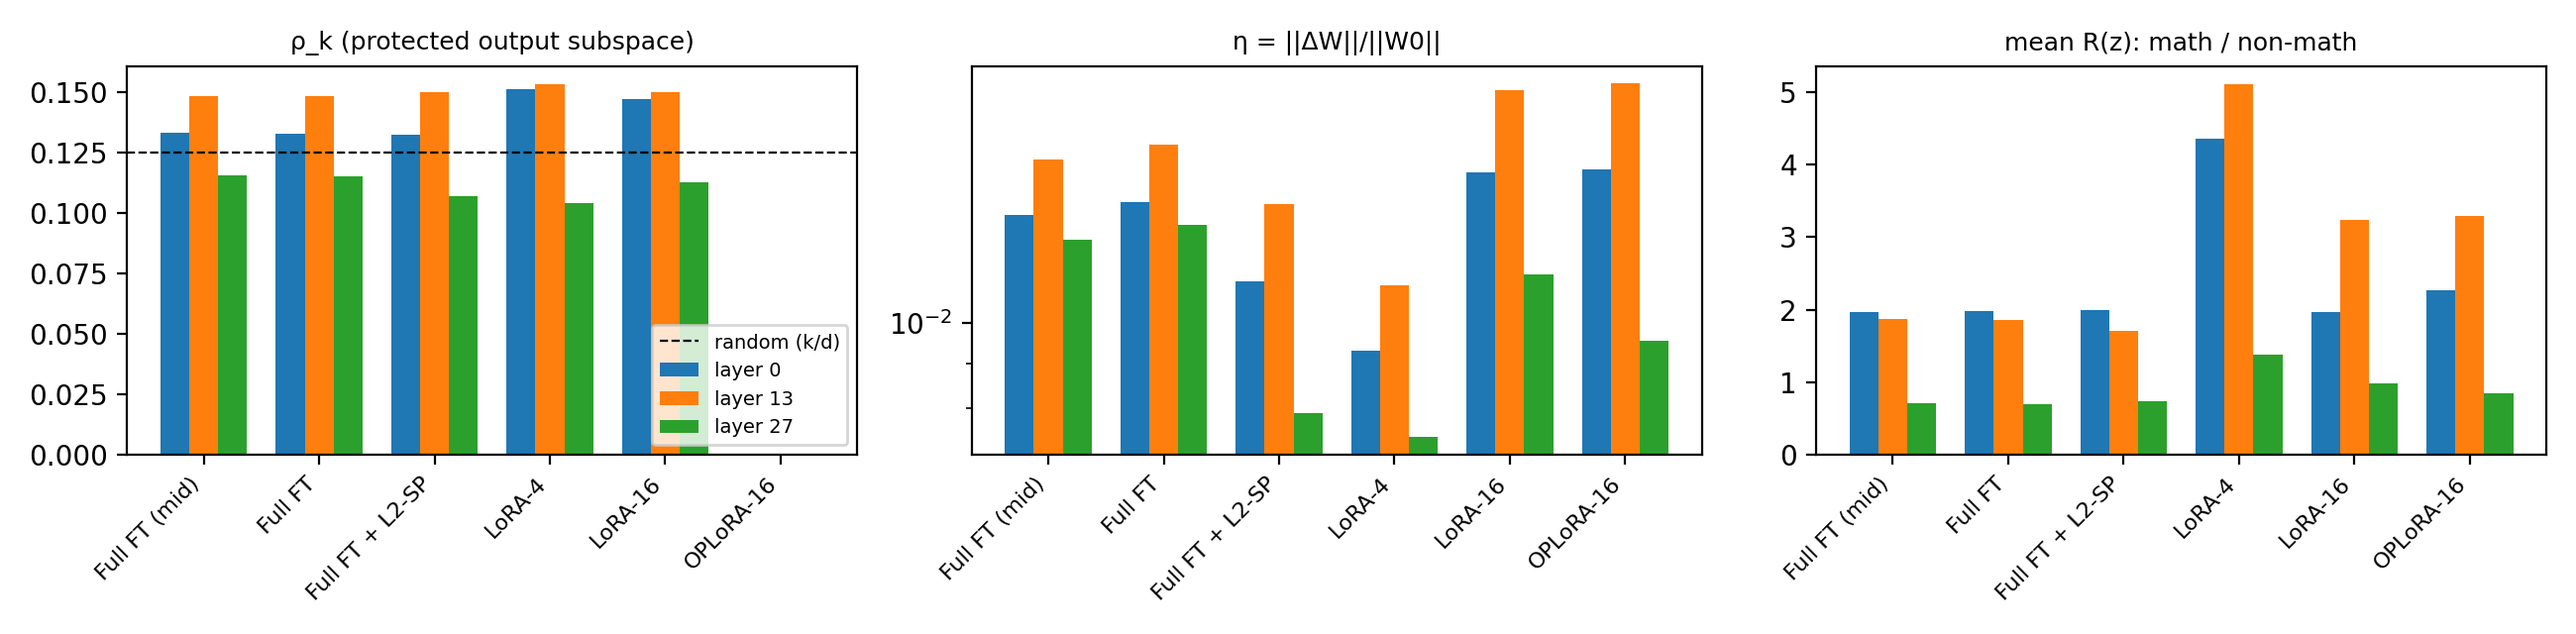
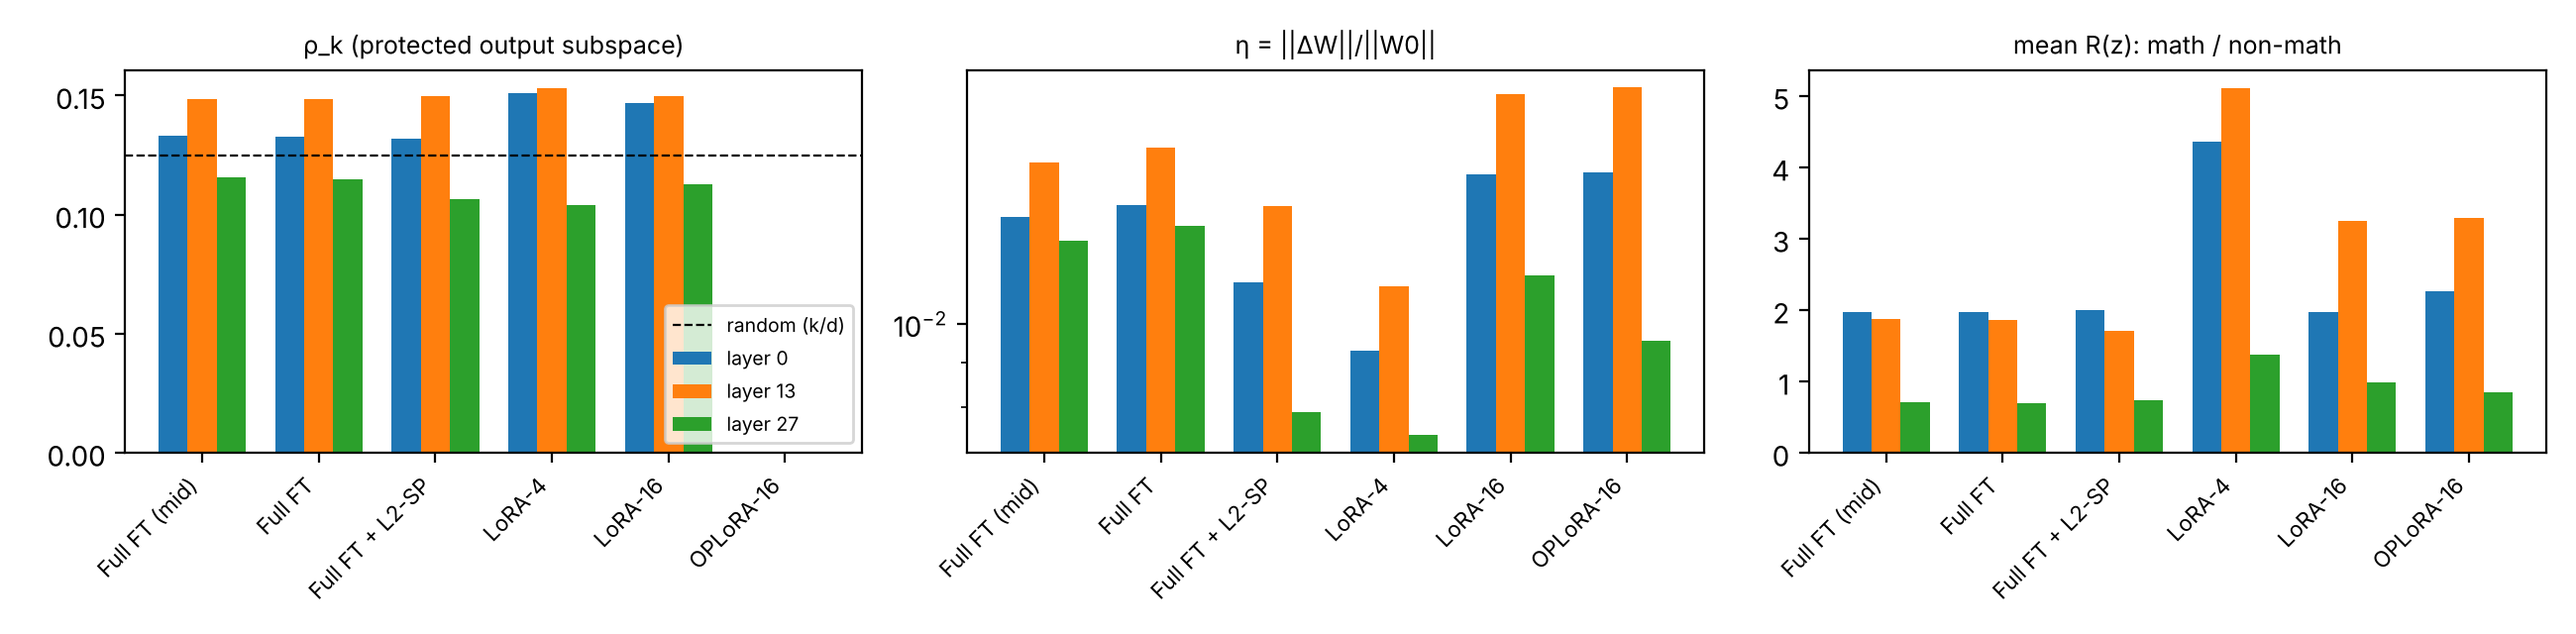
Restore cleaned Task 1 logs and figures; note Task 2 run details
The last results push copied stale Task 1 logs and figures from Drive over the
cleaned versions; regenerated them (identical to fe8941c). Task 2 run notes in
progress.md.

Claude-Session: https://claude.ai/code/session_01EvFs4FW3gdZLJCbrekro76

diff --git a/progress.md b/progress.md
@@ -18,6 +18,13 @@ All three tasks have complete pipelines that run end to end in CPU smoke tests: 
 - On resume, `train_log.jsonl` (and the Task 2 `dev_log.jsonl`) are trimmed to the checkpoint's update, so updates are never logged twice.
 - Notebooks set `PA3_RESULTS` to Drive (`MyDrive/ATML-PA3/results`), seeded from the committed `results/`; the save cell rsyncs Drive → repo before committing. A disconnect therefore loses at most the training since the last checkpoint and the condition being evaluated.
 
+## Task 2 completed on Colab A100 (2026-10-29)
+- vis196 and the optional vis49 run trained (4,500 updates each, ~45 min) and were evaluated on the A100.
+- FP16 overflow at the start: updates 1–5 (vis196) and 1–3 (vis49) were skipped by the GradScaler, and the interface check passed at update 6 / 4. vis49 had one more skip at update 4,411. No non-finite losses.
+- Connector scale = 0.0549 (text-embedding norm 0.870 / initial connector-output norm 15.87).
+- Feature caching took 37 s for 9,258 images; the images were already on disk, so this run did not time the download.
+- Logs re-pushed from Drive overwrote the cleaned Task 1 logs and figures (Drive still had old copies). Restored. To fix the Drive copy, run `python -m task1.analyze` once in Colab after `git pull`.
+
 ## Task 1 completed on Colab A100 (2026-10-29)
 - All 5 trainings and all 7 evaluations ran on Colab A100-SXM4-40GB, **except the baseline evaluation, which ran on an L4** (scores unaffected in principle; GSM8K time 29.5 min vs 8–12 min on the A100). Re-run it on the A100 if evaluation times are compared.
 - LoRA-4 and LoRA-16 were each restarted from scratch before their first checkpoint (248 and 21 extra log rows). The old trainer kept those rows; committed logs now hold only the final attempt (`results/task1/runs/log_cleaning.json`), and both trainers now clear the log on a fresh start. Benchmark scores and summaries were unaffected.
